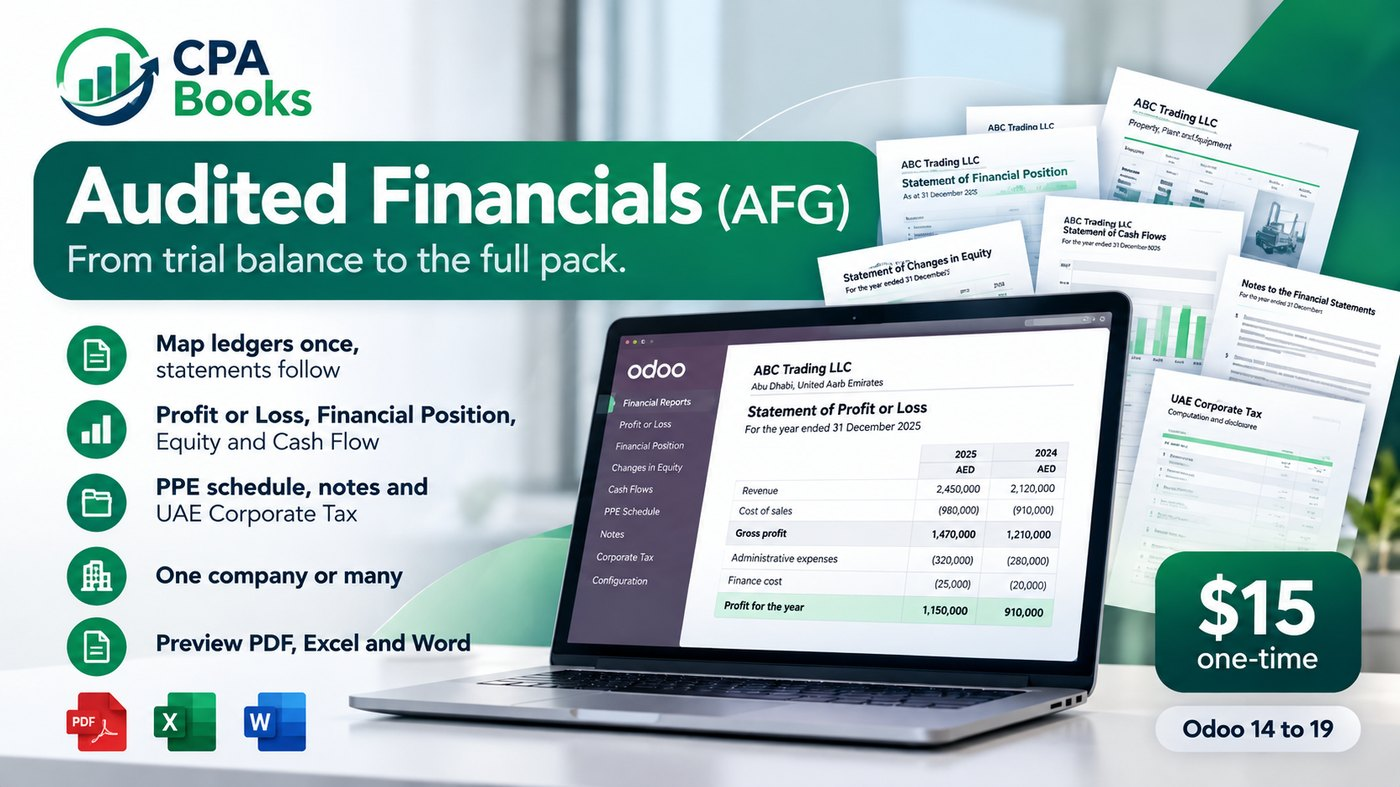
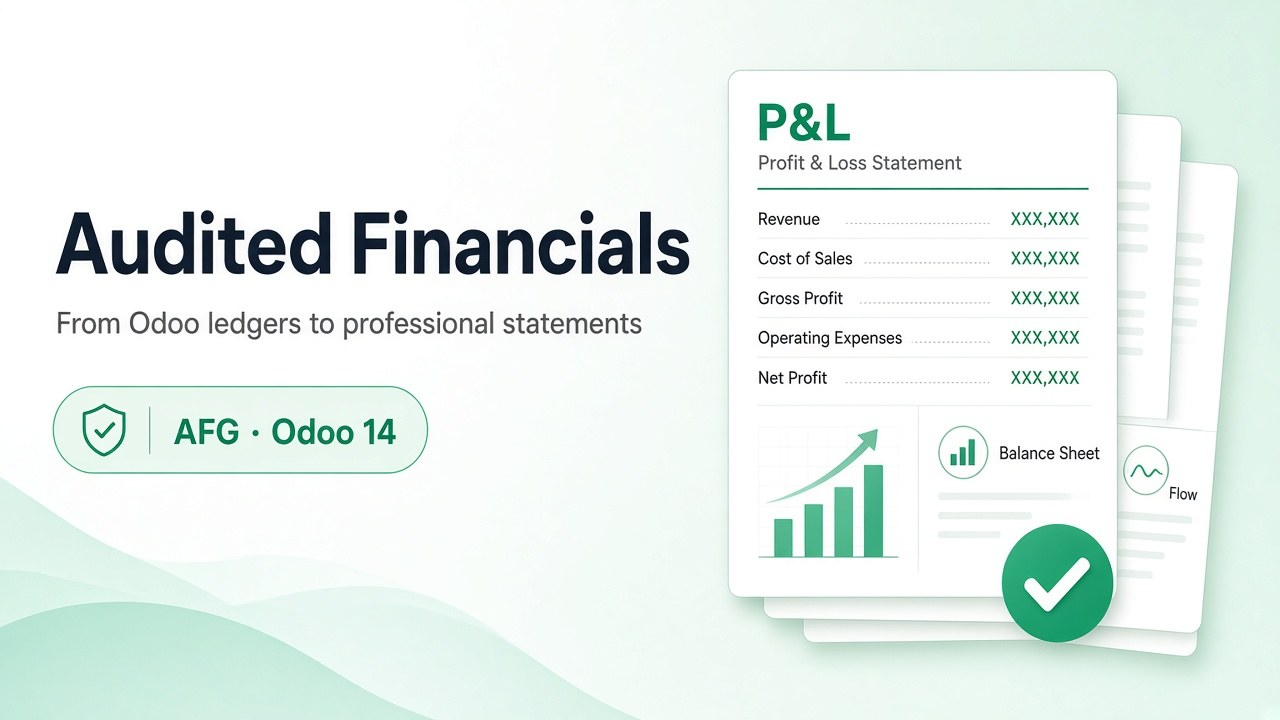
Improve AFG Apps Store design and native cover screenshots

diff --git a/cpabooks_audited_financial/__manifest__.py b/cpabooks_audited_financial/__manifest__.py
@@ -8,23 +8,16 @@ CPABooks Audited Financials (AFG)
 From trial balance to the full pack: Profit or Loss, Financial Position,
 Equity, Cash Flow, PPE schedule, notes and UAE Corporate Tax.
     """,
-    'version': '14.0.1.0.229',
+    'version': '14.0.1.0.230',
     'category': 'Accounting',
     'author': 'CPABooks',
     'website': 'https://www.cpabooks.co',
     'license': 'LGPL-3',
-    'price': 15.00,
+    'price': 1.00,
     'currency': 'USD',
     'support': 'support@cpabooks.co',
     'images': [
-        'static/description/cover_01_screenshot.jpg',
-        'static/description/cover_02_screenshot.jpg',
-        'static/description/cover_03_screenshot.jpg',
-        'static/description/cover_04_screenshot.jpg',
         'static/description/banner_screenshot.jpg',
-        'static/description/feature_01_setup.jpg',
-        'static/description/feature_02_reporting.jpg',
-        'static/description/feature_03_structure.jpg',
     ],
     'depends': [
         'base',

diff --git a/cpabooks_sequences/__manifest__.py b/cpabooks_sequences/__manifest__.py
@@ -15,14 +15,13 @@ Purchase, Inventory, Project and CRM in Odoo 14.
     'website': 'https://www.cpabooks.co',
 
     'category': 'Productivity',
-    'version': '14.0.1.56',
+    'version': '14.0.1.57',
     'license': 'OPL-1',
-    'price': 80.43,
+    'price': 1.00,
     'currency': 'USD',
 
     'images': [
         'static/description/banner_screenshot.jpg',
-        'static/description/banner_alt.jpg',
     ],
 
     'depends': [
